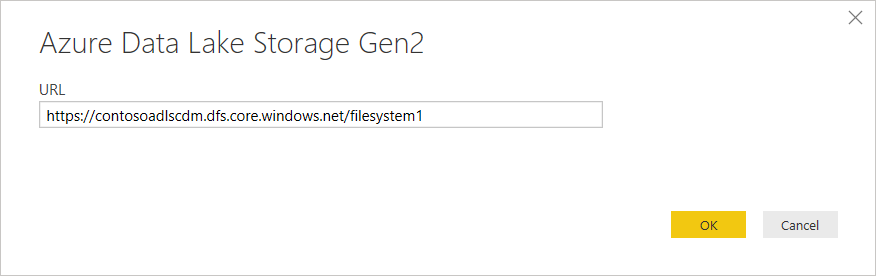
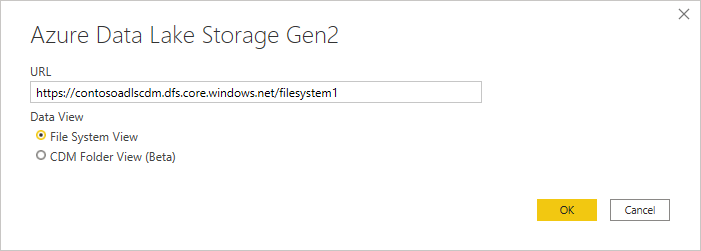
Fixed feedback issue #24

diff --git a/powerquery-docs/Connectors/DataLakeStorage.md b/powerquery-docs/Connectors/DataLakeStorage.md
@@ -37,23 +37,25 @@ Before you begin this tutorial, you must have the following:
 
     `https://<accountname>.dfs.core.windows.net/<filesystemname>/<subfolder>`
     
+    You can also select whether you want to use the file system view or the Common Data Model folder view.
+
     Select **OK** to continue.
 
     ![URL](media/DataLakeStorage/adls-url.png)
 
-5. In the next dialog box, select **Sign in** to sign into your storage account. You'll be redirected to your organization's sign in page. Follow the prompts to sign into the account.
+5. In the next dialog box, select the authentication method. 
+
+   If you select the Organizational account method, select **Sign in** to sign into your storage account. You'll be redirected to your organization's sign in page. Follow the prompts to sign into the account. After you've successfully signed in, select **Connect**.
+   
+   If you select the Account key method, enter your account key, and then select **Connect**.
 
     ![Sign in page](media/DataLakeStorage/sign-in.png)
 
-6. After you've successfully signed in, select **Connect**.
-
-    ![Signed in page](media/DataLakeStorage/signed-in.png)
-
-7. The next dialog box shows all files under the URL you provided in step 4 above, including the file that you uploaded to your storage account. Verify the information, and then select **Load**.
+6. The next dialog box shows all files under the URL you provided in step 4 above, including the file that you uploaded to your storage account. Verify the information, and then select **Load**.
 
     ![File systems](media/DataLakeStorage/file-systems.png)
 
-8. After the data has been successfully loaded into Power BI, you'll see the following fields in the **Fields** tab.
+7. After the data has been successfully loaded into Power BI, you'll see the following fields in the **Fields** tab.
 
     ![Fields tab](media/DataLakeStorage/fields.png)
 
@@ -63,23 +65,23 @@ Before you begin this tutorial, you must have the following:
 
     In the next steps, you'll update the query to convert the imported data to the desired format.
 
-9. From the **Home** tab on the ribbon, select **Edit Queries**.
+8. From the **Home** tab on the ribbon, select **Edit Queries**.
 
     ![Queries](media/DataLakeStorage/queries.png)
 
-10. In the **Query Editor**, under the **Content** column, select **Binary**. The file will automatically be detected as CSV and you should see an output as shown below. Your data is now available in a format that you can use to create visualizations.
+9. In the **Query Editor**, under the **Content** column, select **Binary**. The file will automatically be detected as CSV and you should see an output as shown below. Your data is now available in a format that you can use to create visualizations.
 
     ![Output](media/DataLakeStorage/binary.png)
 
-11. From the **Home** tab on the ribbon, select **Close & Apply**.
+10. From the **Home** tab on the ribbon, select **Close & Apply**.
 
     ![Close and apply](media/DataLakeStorage/close-apply.png)
 
-12. Once the query is updated, the **Fields** tab will show the new fields available for visualization.
+11. Once the query is updated, the **Fields** tab will show the new fields available for visualization.
 
     ![New fields](media/DataLakeStorage/new-fields.png)
 
-13. Now you can create a pie chart to represent the drivers in each city for a given country. To do so, make the following selections.
+12. Now you can create a pie chart to represent the drivers in each city for a given country. To do so, make the following selections.
 
     From the **Visualizations** tab, select the symbol for a pie chart.
 
@@ -93,15 +95,15 @@ Before you begin this tutorial, you must have the following:
 
     ![Pie chart](media/DataLakeStorage/pie-chart.png)
 
-14. By selecting a specific country from the page level filters, you can now see the number of drivers in each city of the selected country. For example, under the **Visualizations** tab, under **Page level filters**, select **Brazil**.
+13. By selecting a specific country from the page level filters, you can now see the number of drivers in each city of the selected country. For example, under the **Visualizations** tab, under **Page level filters**, select **Brazil**.
 
     ![Page filters](media/DataLakeStorage/page-filters.png)
 
-15. The pie chart is automatically updated to display the drivers in the cities of Brazil.
+14. The pie chart is automatically updated to display the drivers in the cities of Brazil.
 
     ![Brazil](media/DataLakeStorage/pie-chart-updated.png)
 
-16. From the **File** menu, select **Save** to save the visualization as a Power BI Desktop file.
+15. From the **File** menu, select **Save** to save the visualization as a Power BI Desktop file.
 
 ## Publish report to Power BI service
 
